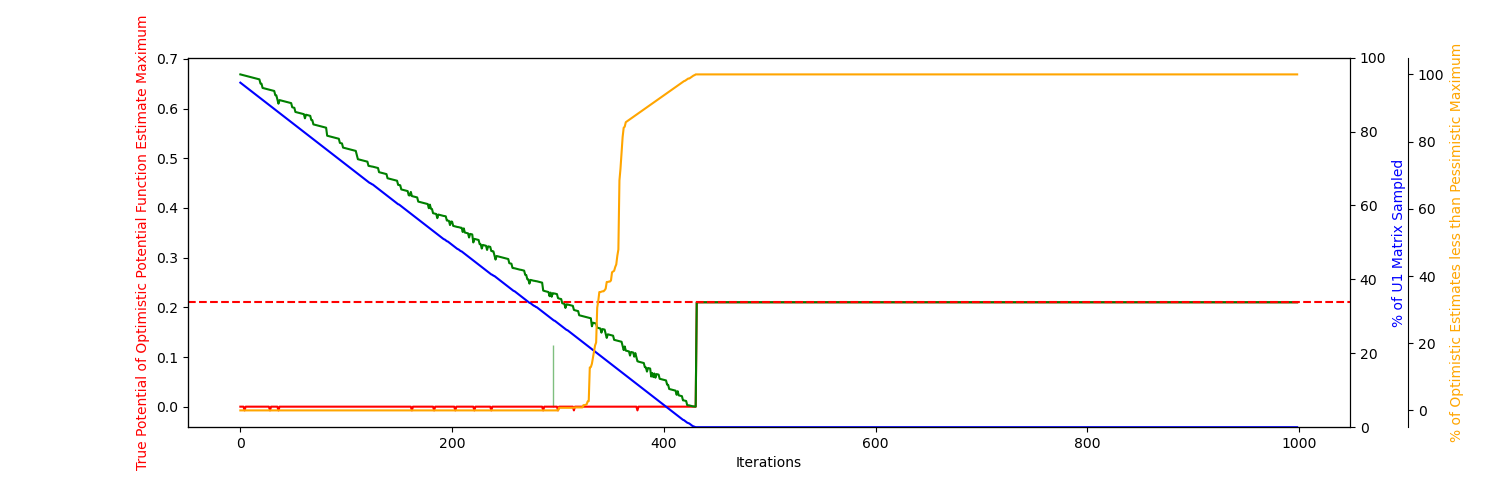
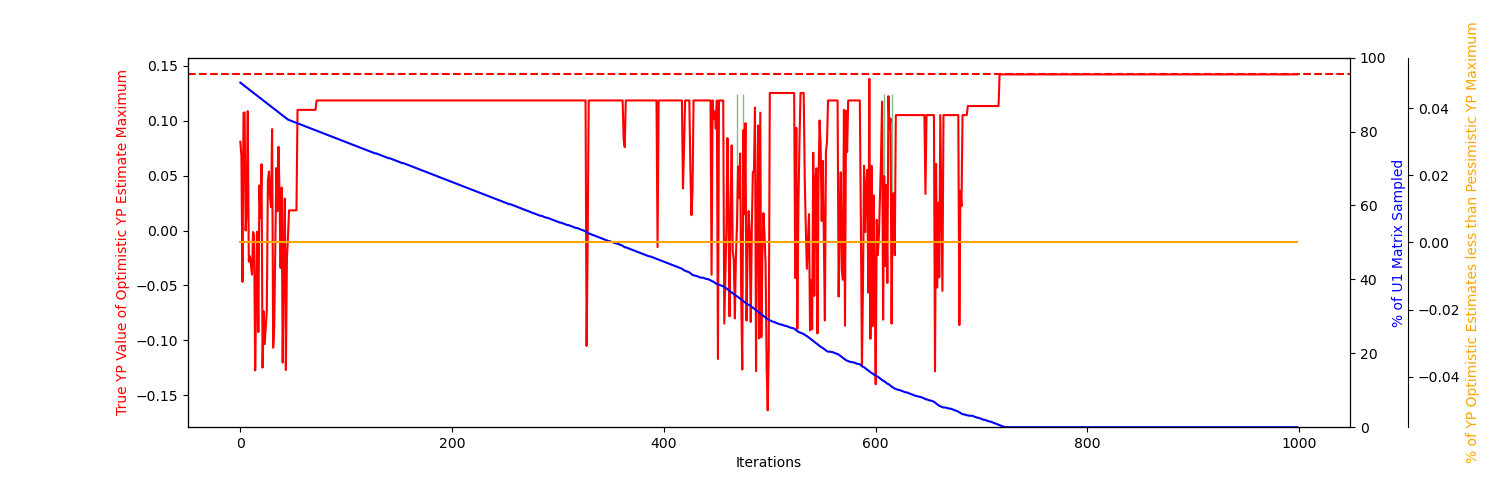
updates

diff --git a/runner.py b/runner.py
@@ -209,9 +209,9 @@ def main(**kwargs):
     # Dimension of Problem
     n = kwargs.get("strategynumber")
 
-    #game = rand.randint(-12500, 12501, (n, n)) / 100000
-    game = np.ones((n, n)) * -0.1
-    game[5,19] = 0.125
+    game = rand.randint(-12500, 12501, (n, n)) / 100000
+    #game = np.ones((n, n)) * -0.1
+    #game[5,19] = 0.125
 
     MaxPotential = np.max(game)
     MinPotential = np.min(game)
@@ -450,9 +450,9 @@ def main(**kwargs):
     fig.set_figwidth(15)
     # plot the first array using the left y-axis
     ax1.plot(Vs, color='red')
-    ax1.plot(Ps, color='green')
+    #ax1.plot(Ps, color='green')
     ax1.set_xlabel('Iterations')
-    ax1.set_ylabel('True Potential of Optimistic Potential Function Estimate Maximum', color='red')
+    ax1.set_ylabel('True YP Value of Optimistic YP Estimate Maximum', color='red')
     ax1.axhline(y=np.max(UnknownYP), color='r', linestyle='--')
     #ax1.axhline(y=np.max(game), color='r', linestyle='--')
 
@@ -472,7 +472,7 @@ def main(**kwargs):
 
     # plot the second array using the right y-axis
     ax3.plot(Gaps, color='orange', label='Gap')
-    ax3.set_ylabel('% of Optimistic Estimates less than Pessimistic Maximum', color='orange')
+    ax3.set_ylabel('% of YP Optimistic Estimates less than Pessimistic YP Maximum', color='orange')
     ax3.spines.right.set_position(("axes", 1.05))
 
     # set the title of the plot
